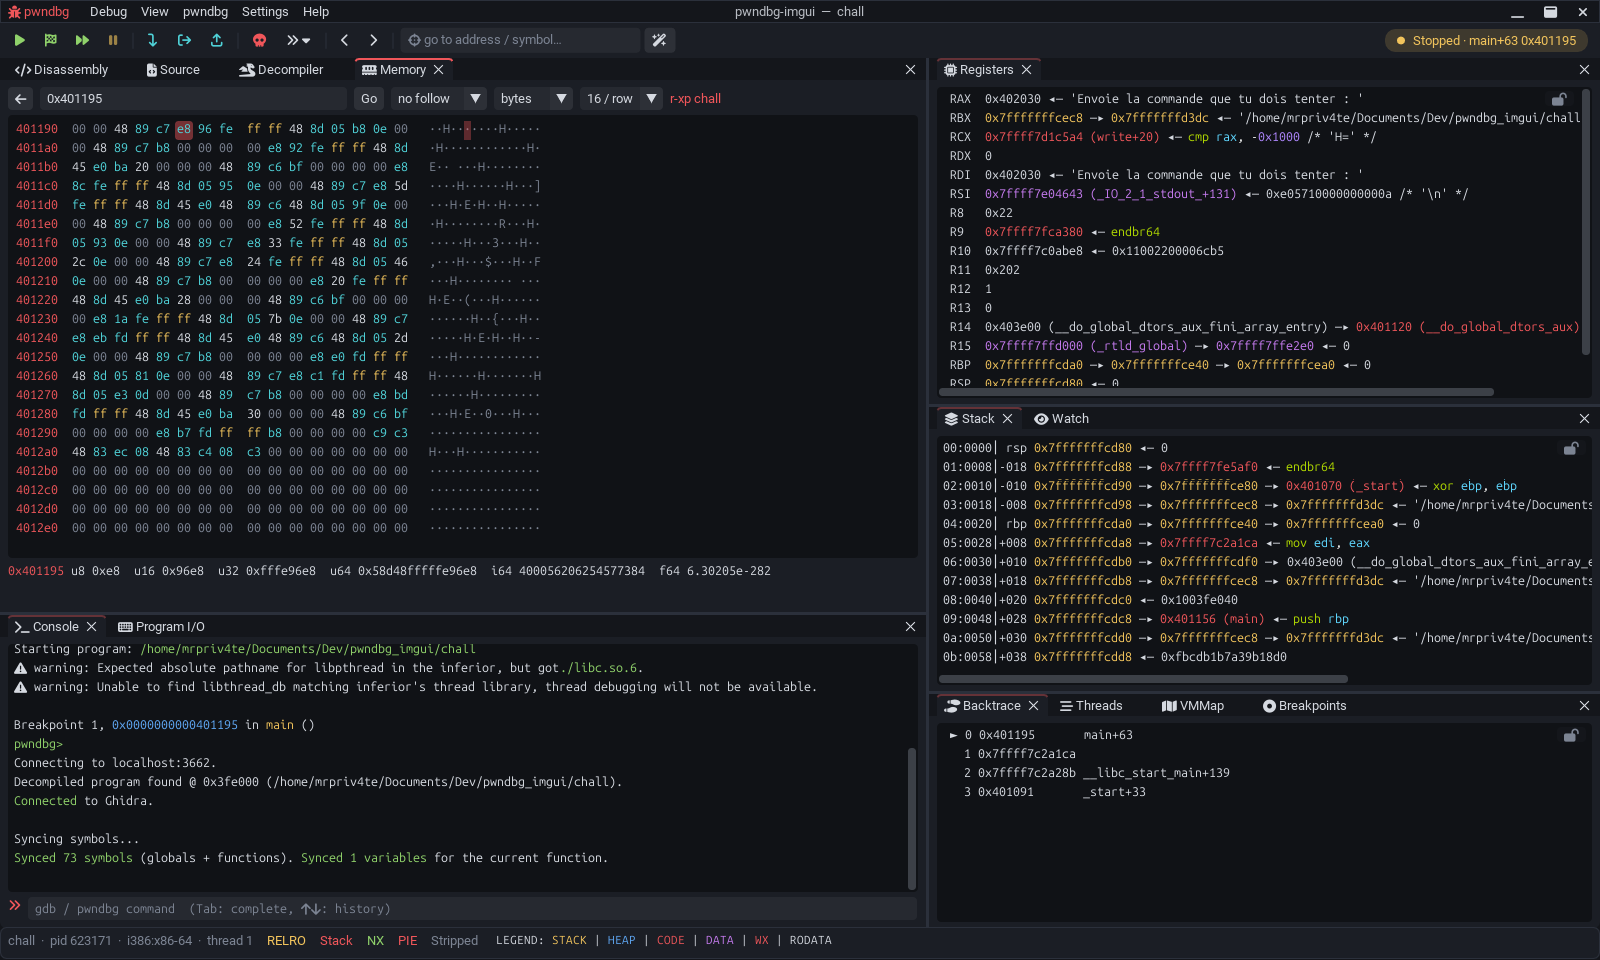
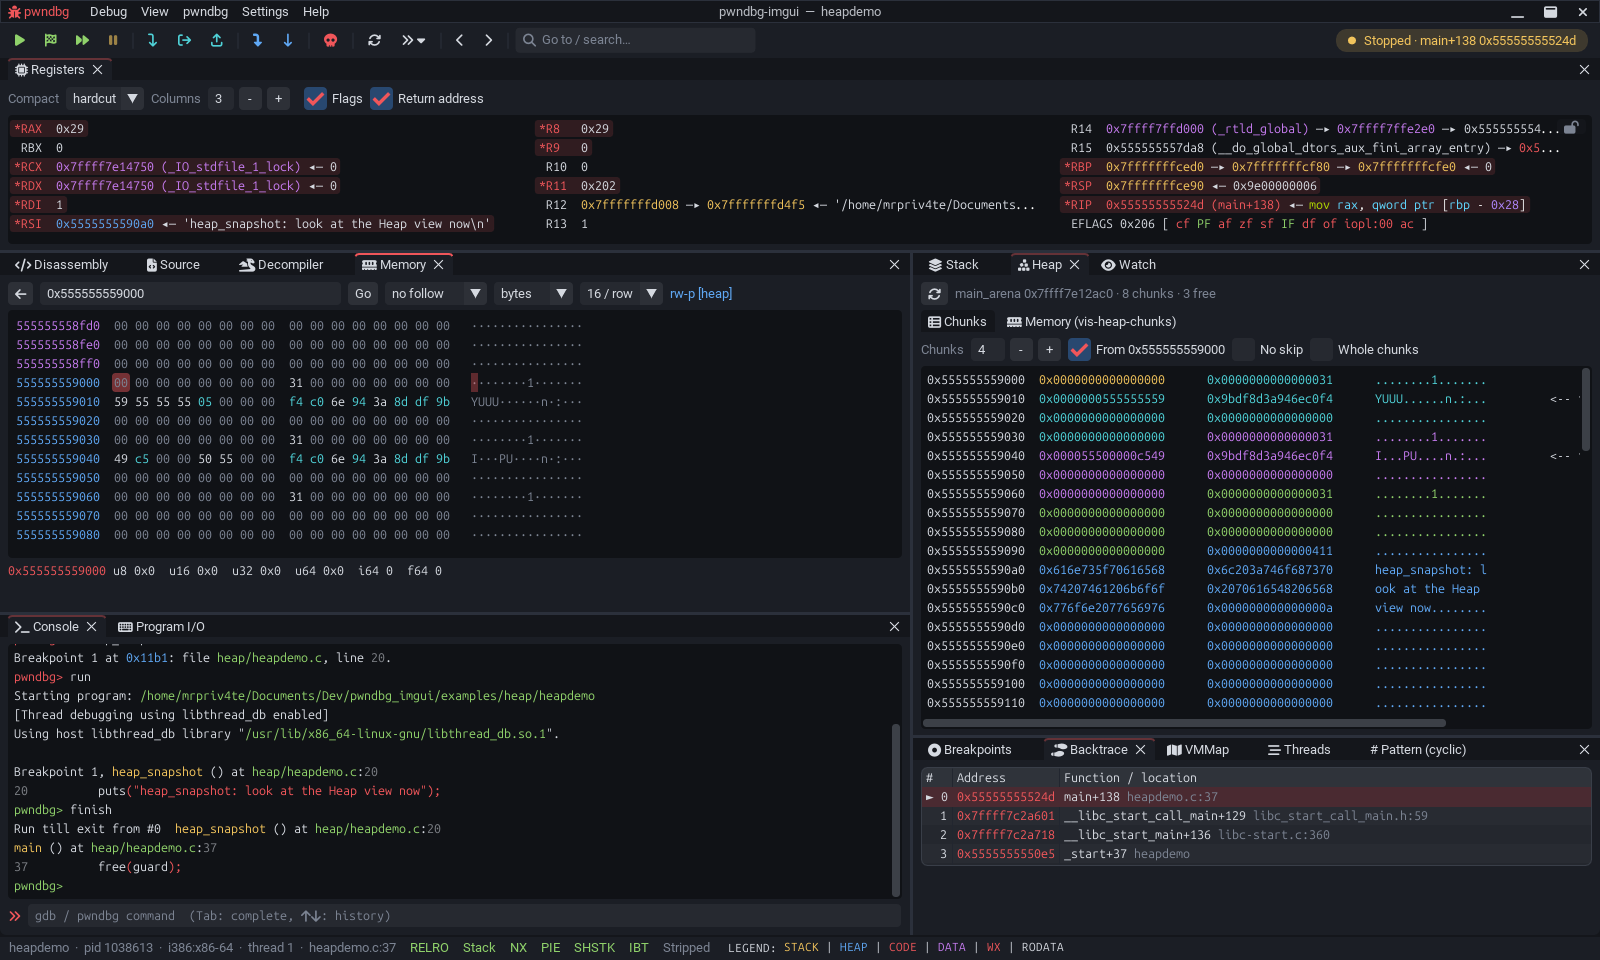
docs: retake the README screenshots
The built-in layout, tables, toolbar and heap view changed: new shots of
the heapdemo example on a fresh config (overview with the Heap and
Backtrace tables; the Memory view with the Heap's vis-heap-chunks tab;
the go-to search with "main" typed), same 1600x960 size.

diff --git a/README.md b/README.md
@@ -162,9 +162,9 @@ a [CTF challenge](examples/creneau-serre) with a pwntools exploit template.
 
 ## 🖼 Gallery
 
-| Memory view | Command palette |
+| Memory view and the Heap's `vis-heap-chunks` tab | One search box: go to, run, find |
 |:---:|:---:|
-| ![Memory](docs/screenshots/memory.png) | ![Palette](docs/screenshots/palette.png) |
+| ![Memory and heap](docs/screenshots/memory.png) | ![Search and palette](docs/screenshots/palette.png) |
 
 ---
 
